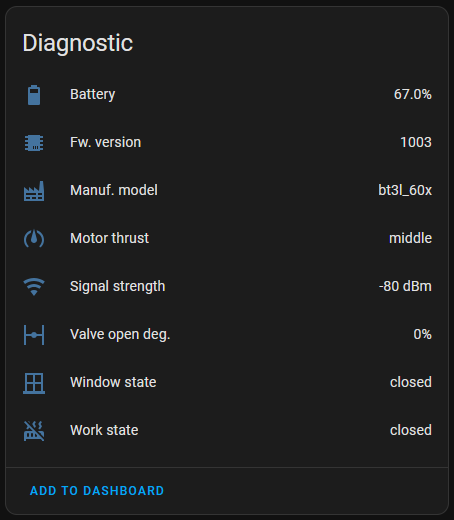
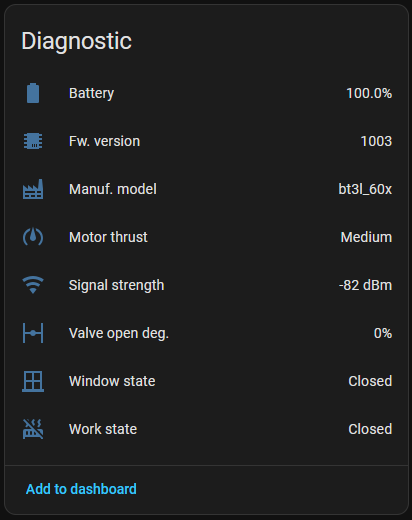
The deprecated constant CONCENTRATION_PARTS_PER_MILLION was used from tuya_ble. It will be removed in HA Core 2027.8.

diff --git a/custom_components/tuya_ble/number.py b/custom_components/tuya_ble/number.py
@@ -13,7 +13,7 @@ from homeassistant.components.number import (
 from homeassistant.components.number.const import NumberDeviceClass, NumberMode
 from homeassistant.config_entries import ConfigEntry
 from homeassistant.const import (
-    CONCENTRATION_PARTS_PER_MILLION,
+    UnitOfRatio,
     PERCENTAGE,
     UnitOfTime,
     UnitOfVolume,
@@ -247,7 +247,7 @@ mapping: dict[str, TuyaBLECategoryNumberMapping] = {
                         icon="mdi:molecule-co2",
                         native_max_value=5000,
                         native_min_value=400,
-                        native_unit_of_measurement=CONCENTRATION_PARTS_PER_MILLION,
+                        native_unit_of_measurement=UnitOfRatio.PARTS_PER_MILLION,
                         native_step=100,
                         entity_category=EntityCategory.CONFIG,
                     ),

diff --git a/CHANGELOG.md b/CHANGELOG.md
@@ -20,7 +20,6 @@ and this project adheres to [Semantic Versioning].
 ### Changed
 
 - Removed the redundant strings.json file. Custom integration translations are maintained in translations/en.json, with explicit English text as required by the [Home Assistant custom integration localization documentation](https://developers.home-assistant.io/docs/internationalization/custom_integration/).
-
 - Made User Code the default setup method and placed it above the existing manual section.
 - Removed the Tuya Developer Platform login section and the old developer-account SDK. The maintainer's developer-account trial/subscription expired; using the app account avoids requiring a separate developer project and renewing its IoT service subscription.
 - Kept manual setup and local BLE operation. Only device credentials are saved; QR and account access/refresh tokens remain in memory during setup.
@@ -29,13 +28,11 @@ and this project adheres to [Semantic Versioning].
 
 ### Fixed
 
+- Replace the remaining deprecated CONCENTRATION_PARTS_PER_MILLION import and usage in the CO2 alarm threshold number entity with UnitOfRatio.PARTS_PER_MILLION.
 - Align English translations with the actual entity keys, including the binary battery sensor, lid display button, temperature calibration and battery percentage. Add missing reminder, lock alarm, volume, display, motor thrust and valve/window state labels without changing entity identifiers or datapoint mappings.
-
 - Replace all unresolved translation references in strings.json and translations/en.json with explicit English labels and states, including Battery, Signal strength, Brightness, Switch, Charging, Not charging, Low, Normal, Carbon dioxide, Humidity, Moisture and Temperature.
-
 - Preserve the Bluetooth MAC from the discovery card when adding an app-account device and the advertisement UUID cannot be decoded. Prefer an exact UUID match and never use the discovery fallback when a decoded UUID conflicts.
 - Use the latest available advertisement when checking a discovered device, and distinguish a missing Bluetooth MAC from an invalid address in the confirmation form.
-
 - Restored the BLE library exports after integration lifecycle code had been placed in the internal library initializer.
 - Reload the integration when credentials change and bound device shutdown during unload so an unreachable BLE device does not block removal indefinitely.
 
